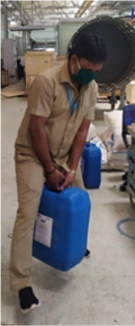
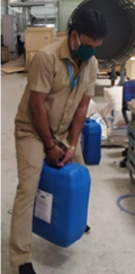
images change in india.html

diff --git a/india.html b/india.html
@@ -69,7 +69,7 @@
   <div class="container">
 
     <div class="row">
-      <div class="col-lg-5">
+      <div class="col-lg-5 first-left-div">
         <h1 class="second-heading">Joint Venture with
 Forbes Marshall
 Pvt. Ltd.</h1>
@@ -80,8 +80,8 @@ Pvt. Ltd.</h1>
 <img src="img-india-1-left.png" style="width:100%;" alt="">
       </div>
 
-      <div class="col-lg-7">
-        <img src="img-india-1-right.png" class="first-right-image" alt="" style="width:90%;">
+      <div class="col-lg-7 first-right-div">
+        <img src="img-india-1-right.png" class="first-right-image" alt="" style="width:100%;">
         <br>
         <br>
         <p class="description-para">The JVC is manufacturing the products to be supplied / distributed in India.
@@ -123,14 +123,18 @@ Main activities of Forbes Marshall are steam solutions for industry (boilers, cl
           <div class="row">
             <div class="col-lg-8">
 
-              <img src="second-left.png" alt="" style="width:100%;">
+              <img src="second-left.png" alt="" id="first-image" style="width:100%;">
             </div>
-            <div class="col-lg-2">
-              <img src="second-left-3.png" alt="" style="width:100%;">
+            <div class="col-lg-2 col-sm-4">
+              <img src="second-left-3.png" class="first-images" alt="" style="width:100%;">
 
             </div>
-            <div class="col-lg-2">
-              <img src="second-left-1.png" alt="" style="width:100%;">
+            <div class="col-lg-2 col-sm-4">
+              <img src="second-left-1.png" class="first-images" alt="" style="width:100%;">
+
+            </div>
+            <div class="col-lg-2 col-sm-4 third-image">
+              <img src="second-left-2.png" class="first-images" alt="" style="width:100%;">
 
             </div>
           </div>

diff --git a/css/india.css b/css/india.css
@@ -97,6 +97,28 @@ body{
   background-color: #dedede;
   padding: 80px 10%;
 }
+.first-right-div{
+  margin: 20px 0;
+}
+.first-left-div{
+  margin: 20px 0;
+}
+.third-image{
+  display: none;
+}
+#first-image{
+  margin: 20px 0;
+}
+@media (max-width:992px){
+  .third-image{
+    display: inline-block;
+    height: 100%;
+     object-fit: cover;
+  }
+}
+.first-images{
+  margin: 20px 0;
+}
 
 
 
